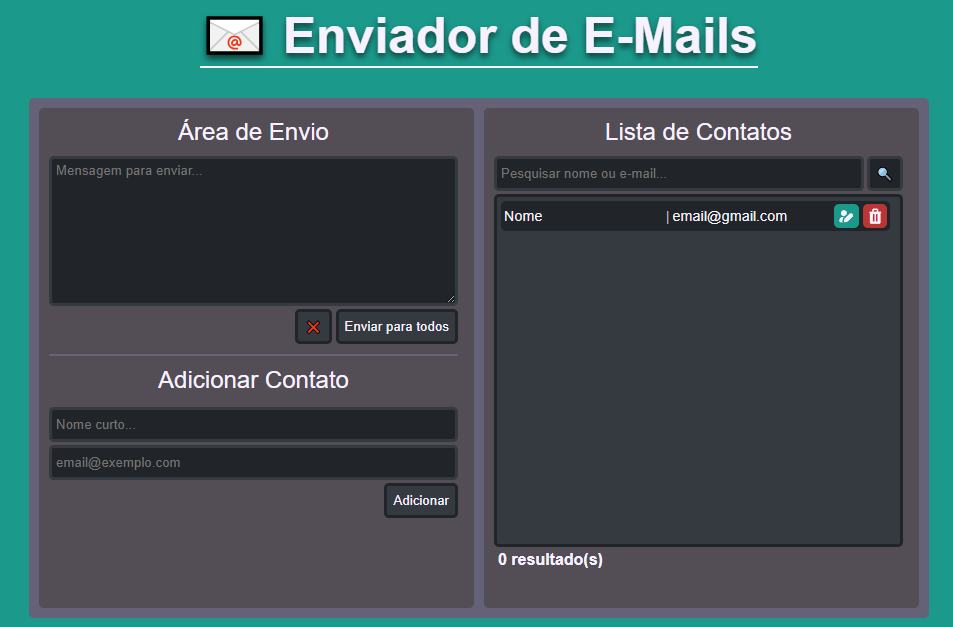
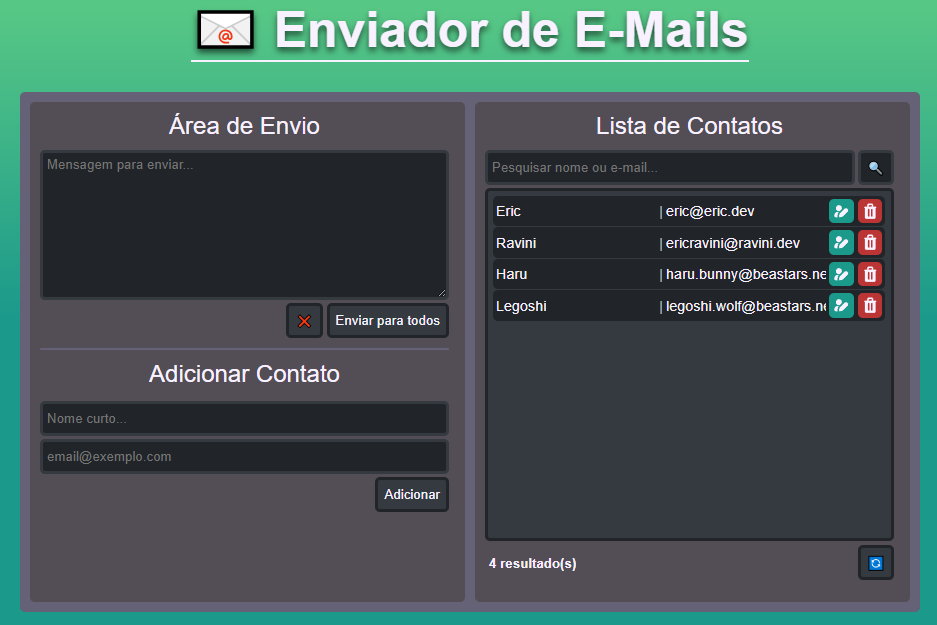
⚙ Funcionalidade das seções de adicionar, listar e pesquisar contatos.
- Agora é possível adicionar contatos à database;
- Os contatos da database agora aparecem na lista;
- Barra de pesquisa agora é funcional;
- Botão de recarregar página adicionado;
- Pequeno efeito de sombra adicionado no textarea da área de envio.

Changed region(s): [[0.0, 0.0, 1.0, 1.0]]

diff --git a/templates/index.html b/templates/index.html
@@ -4,7 +4,7 @@
   <meta charset="UTF-8">
   <meta name="viewport" content="width=device-width, initial-scale=1.0">
   <title>E-Mails</title>
-  <!-- <link rel="stylesheet" href="../templates/css/style.css"> -->
+  <link rel="stylesheet" href="../templates/css/style.css">
   <link rel="stylesheet" href="templates/css/style.css">
   <link rel="stylesheet" href="templates/css/responsivo.css">
 </head>
@@ -22,12 +22,14 @@
           <textarea name="mensagem" id="mensagem" cols="30" rows="10" placeholder="Mensagem para enviar..." minlength="3" spellcheck="true"></textarea>
 
           <div class="button-div">
-            <input type="reset" value="❌">
+            <input type="reset" value="❌" title="Limpar mensagem">
             <input type="submit" value="Enviar para todos">
           </div>
 
-          {if (isset($mensagemEnviada))}
-            echo "<div class="mensagem-enviada">" . $mensagemEnviada . "</div>";
+          {if (isset($mensagemEnviada) && strlen($mensagemEnviada) > 2)}
+            <div class="mensagem-enviada"><strong>Mensagem enviada:</strong> <br>
+              <span class="mensagem">{$mensagemEnviada}</span>
+            </div>
           {/if}
         </form>
       </div>
@@ -38,7 +40,7 @@
         <input type="hidden" name="acao" value="add-contato">
 
         <input class="input-text" type="text" name="nome" id="nome" placeholder="Nome curto..." class="input-text" autocomplete="off" required>
-        <input class="input-text" type="text" name="email" id="email" placeholder="email@exemplo.com" autocomplete="off" required>
+        <input class="input-text" type="email" name="email" id="email" placeholder="email@exemplo.com" autocomplete="off" required>
 
         <div class="button-div">
           <input type="submit" value="Adicionar">
@@ -49,21 +51,35 @@
       <h2>Lista de Contatos</h2>
 
       <form class="div-search" action="index.php" method="post">
-        <input class="search-bar" type="text" name="search" id="search" placeholder="Pesquisar nome ou e-mail..." autocomplete="off">
+        <input type="hidden" name="acao" value="pesquisar">
+        <input class="search-bar" type="text" name="search" id="search" placeholder="Pesquisar nome ou e-mail..." autocomplete="off" value="{if (isset($mensagemPesquisa))}{$mensagemPesquisa}{/if}">
+        
         <input class="search-button" type="submit" value="🔍">
       </form>
 
       <div class="user-list">
+        {if (isset($mensagemPesquisa))}
+          <div class="search-message">
+            <small>Mostrando resultados para "{$mensagemPesquisa}" ({$results}):</small>
+          </div>
+        {/if}
+        {foreach $listaUsers as $user}
         <div class="line">
-          <span class="user-name">Nome</span> | 
-          <span class="email">email@gmail.com</span> 
+          <span class="user-name" title="{$user.nome}">{$user.nome}</span> | 
+          <span class="email" title="{$user.email}">{$user.email}</span> 
           <span class="actions">
-            <svg class="edit" aria-hidden="true" xmlns="http://www.w3.org/2000/svg" width="24" height="24" fill="currentColor" viewBox="0 0 24 24"><path fill-rule='evenodd' d='{$editIcon}' clip-rule='evenodd'/></svg>
-            <svg class="delete" aria-hidden="true" xmlns="http://www.w3.org/2000/svg" width="24" height="24" fill="currentColor" viewBox="0 0 24 24"><path fill-rule='evenodd' d='{$deleteIcon}' clip-rule='evenodd'/></svg>
+            <svg class="edit" title="Editar contato" aria-hidden="true" xmlns="http://www.w3.org/2000/svg" width="24" height="24" fill="currentColor" viewBox="0 0 24 24"><path fill-rule='evenodd' d='{$editIcon}' clip-rule='evenodd'/></svg>
+            <svg class="delete" title="Deletar contato" aria-hidden="true" xmlns="http://www.w3.org/2000/svg" width="24" height="24" fill="currentColor" viewBox="0 0 24 24"><path fill-rule='evenodd' d='{$deleteIcon}' clip-rule='evenodd'/></svg>
           </span>
         </div>
+        {/foreach}
       </div>
-      <p class="list-results-text">{$results} resultado(s)</p>
+      <div class="after-list">
+        <p class="list-results-text"><small>{$results} resultado(s)</small></p>
+        <form class="div-recarregar">
+          <input class="reload-button" type="submit" value="🔄" title="Recarregar">
+        </form>
+      </div>
     </section>
   </main>
 

diff --git a/templates/css/style.css b/templates/css/style.css
@@ -70,7 +70,7 @@ main > section {
   height: 500px;
   border-radius: inherit;
   background-color: var(--davys-gray);
-  overflow: scroll;
+  overflow-y: scroll;
 }
 
 ::-webkit-scrollbar {
@@ -103,8 +103,6 @@ main > section {
 }
 
 /* --- Forms --- */
-
-
 form {
   display: flex;
   flex-direction: column;
@@ -126,16 +124,33 @@ textarea {
   padding: 4px;
   color: var(--french-gray);
   background-color: var(--eerie-black);
-  transition: border-color 0.2s ease-in-out, color 0.2s ease;
+  transition: border-color 0.2s ease-in-out, color 0.2s ease, transform 0.2s ease, box-shadow 0.2s ease;
 }
 textarea:focus {
   color: var(--magnolia);
+  transform: translateY(-2px);
   outline: none;
   border-color: var(--dim-gray);
+  box-shadow: 0 3px 10px 3px rgba(0,0,0,0.2);
+}
+textarea:hover {
+  color: var(--magnolia);
 }
 
 .mensagem-enviada {
+  padding: 4px;
+  height: auto;
+  max-height: 200px;
+  text-indent: 4px;
   margin-top: 4px;
+  border-radius: 5px;
+  overflow-wrap: anywhere;
+  overflow-y: scroll;
+  color: var(--magnolia);
+  background-color: var(--onyx);
+}
+.mensagem-enviada .mensagem {
+  color: var(--magnolia);
 }
 
 .input-text {
@@ -155,6 +170,9 @@ textarea:focus {
   outline: none;
   border-color: var(--dim-gray);
 }
+.input-text:hover {
+  color: var(--magnolia);
+}
 
 .button-div { /* A div do botão */
   margin-top: 3px;
@@ -163,7 +181,7 @@ textarea:focus {
   justify-content: end;
   gap: 4px;
 }
-.button-div input { /* O input botao */
+.button-div input, .reload-button { /* O input botao */
   min-width: 35px;
   width: auto;
   height: 35px;
@@ -175,16 +193,19 @@ textarea:focus {
 
   transition: border-color 0.2s ease, background-color 0.2s ease, transform 0.2s ease;
 }
-.button-div input:hover {
+.button-div input:hover, .reload-button:hover {
   transform: scale(1.04);
   background-color: var(--eerie-black);
   border-color: black;
+}
+.button-div input:active, .reload-button:active {
+  transform: scale(1);
 }
 
 /* --- Lista de contatos --- */
 .user-list {
   margin-top: 3px;
-  padding: 4px;
+  padding: 4px 0 4px 0;
   height: 73.6%;
   font-size: 0.9rem;
   
@@ -196,8 +217,14 @@ textarea:focus {
   
   overflow: scroll;
 }
+.search-message small { /* "Mostrando resultados para..." */
+  color: var(--french-gray);
+  margin-left: 5px;
+}
 /* - Linha - */
 .user-list .line {
+  margin-top: 1px;
+  margin-left: 5px;
   padding: 3px;
   width: auto;
   display: flex;
@@ -207,6 +234,10 @@ textarea:focus {
   
   color: var(--french-gray);
   background-color: var(--eerie-black);
+  transition: background-color 0.1s ease;
+}
+.user-list .line:hover {
+  background-color: #272b30;
 }
 .user-name, .email {
   flex: 2;
@@ -268,6 +299,9 @@ textarea:focus {
   outline: none;
   border-color: var(--dim-gray);
 }
+.search-bar:hover {
+  color: var(--magnolia);
+}
 
 .search-button { /* O input botao */
   min-width: 35px;
@@ -286,9 +320,18 @@ textarea:focus {
   background-color: var(--onyx);
   border-color: var(--eerie-black);
 }
+.search-button:active {
+  transform: scale(1);
+}
 
-.list-results-text {
+.after-list {
   margin-top: 4px;
+  display: flex;
+  flex-wrap: nowrap;
+  align-items: center;
+}
+.list-results-text {
+  flex: 1;
 
   text-indent: 4px;
   font-weight: bold;

diff --git a/index.php b/index.php
@@ -1,28 +1,88 @@
 <?php 
   include('configs/config.ini.php');
   include('configs/conexao.php');
+  include('configs/utils.php');
+  
+  $queryLista = $pdo->prepare('SELECT * FROM contatos ORDER BY email');
 
-  // LISTA
   try {
-    $queryLista = $pdo->prepare('SELECT * FROM contatos');
     $queryLista->execute();
+
+    $listaUsers = []; /* pra caso a query nao executar por algum motivo */
     $listaUsers = $queryLista->fetchAll(PDO::FETCH_ASSOC);
   } catch (PDOException $e) {
     die('Erro ao listar contatos: ' . $e->getMessage());
   }
-
-  echo (@$listaUsers[0]["email"]);
-
+  
   // AÇÕES
-  @$acao = $_GET['acao'];
-  if (isset($acao)) {
+  if (isset($_POST['acao'])) {
+    $acao = $_POST['acao'];
 
+    switch ($acao) {
+      case 'enviar-todos':
+        $mensagemEnviada = $_POST['mensagem'];
+        break;
+
+      case 'add-contato':
+        $nome = $_POST['nome'];
+        $email = strtolower($_POST['email']);
+        $adicionar = true;
+
+        foreach ($listaUsers as $user) {
+          if ($user['email'] == $email) {
+            $adicionar = false;
+            alert("Já existe um contato com esse e-mail: ". $user['nome'] ." | $email");
+            break;
+          }
+        }
+
+        if ($adicionar == true) {
+          $queryAdd = $pdo->prepare('INSERT INTO contatos (nome, email) VALUES (?, ?)');
+          $queryAdd->execute([$nome, $email]); // passando os valores por aqui para evitar problemas de sql injection
+          alert("Contato Adicionado: $nome | $email");
+
+          // Atualizando a lista de contatos para mostrar depois
+          try {
+            $queryLista->execute();
+            $listaUsers = $queryLista->fetchAll(PDO::FETCH_ASSOC);
+          } catch (PDOException $e) {}
+        }
+        break;
+
+        case 'pesquisar':
+          if (!empty($_POST['search'])) {
+            $mensagemPesquisa = $_POST['search'];
+
+            try {
+              $queryPesquisa = $pdo->prepare('SELECT * FROM contatos WHERE nome LIKE ? OR email LIKE ?');
+              $argumentoPesquisa = "%" . $mensagemPesquisa . "%";
+              $queryPesquisa->execute($argumentoPesquisa, $argumentoPesquisa); // passando os valores por aqui para evitar problemas de sql injection (novamente)
+              $listaUsers = $queryPesquisa->fetchAll(PDO::FETCH_ASSOC);
+            } catch (PDOException $e) {
+              die('Erro ao listar contatos: ' . $e->getMessage());
+            }
+          }
+        break;
+
+      default:
+        break;
+    }
   }
 
-  $smarty->assign('listaContatos', $listaUsers);
+  // VARIÁVEIS
+  if (isset($listaUsers)) {
+    $smarty->assign('listaUsers', $listaUsers);
+  }
+  if (isset($mensagemEnviada)) {
+    $smarty->assign('mensagemEnviada', $mensagemEnviada);
+  }
+  if (isset($mensagemPesquisa)) {
+    $smarty->assign('mensagemPesquisa', $mensagemPesquisa);
+  }
   // Ícones (config.ini.php)
   $smarty->assign('editIcon', $edit_svg_icon);
   $smarty->assign('deleteIcon', $delete_svg_icon);
   $smarty->assign('results', count($listaUsers));
+
   // Display final
   $smarty->display('index.html');

diff --git a/configs/config.ini.php b/configs/config.ini.php
@@ -4,7 +4,9 @@
   use Smarty\Smarty;
   
   $smarty = new Smarty();
+
   $edit_svg_icon = "M5 8a4 4 0 1 1 7.796 1.263l-2.533 2.534A4 4 0 0 1 5 8Zm4.06 5H7a4 4 0 0 0-4 4v1a2 2 0 0 0 2 2h2.172a2.999 2.999 0 0 1-.114-1.588l.674-3.372a3 3 0 0 1 .82-1.533L9.06 13Zm9.032-5a2.907 2.907 0 0 0-2.056.852L9.967 14.92a1 1 0 0 0-.273.51l-.675 3.373a1 1 0 0 0 1.177 1.177l3.372-.675a1 1 0 0 0 .511-.273l6.07-6.07a2.91 2.91 0 0 0-.944-4.742A2.907 2.907 0 0 0 18.092 8Z";
   $delete_svg_icon = "M8.586 2.586A2 2 0 0 1 10 2h4a2 2 0 0 1 2 2v2h3a1 1 0 1 1 0 2v12a2 2 0 0 1-2 2H7a2 2 0 0 1-2-2V8a1 1 0 0 1 0-2h3V4a2 2 0 0 1 .586-1.414ZM10 6h4V4h-4v2Zm1 4a1 1 0 1 0-2 0v8a1 1 0 1 0 2 0v-8Zm4 0a1 1 0 1 0-2 0v8a1 1 0 1 0 2 0v-8Z";
+  
   // usado para que todas as strings passadas pelo smarty sejam consideradas "seguras" pro html. preciso dar uma olhada a mais nisso.
   $smarty->setEscapeHtml(true); 

diff --git a/configs/conexao.php b/configs/conexao.php
@@ -20,5 +20,5 @@
     $query->execute();
 
   } catch (PDOException $e) {
-    echo '<p style="color=red;">Erro na conexão da database: ' . $e->getMessage() . '</p>'; //o getmessage aqui pega a mensagem do erro, obviamente
+    die ('Erro na conexão da database: ' . $e->getMessage()); //o getmessage aqui pega a mensagem do erro, obviamente
   }

diff --git a/configs/utils.php b/configs/utils.php
@@ -1,0 +1,5 @@
+<?php
+
+  function alert($msg) {
+    echo "<script>alert('" . $msg . "')</script>";
+  }
